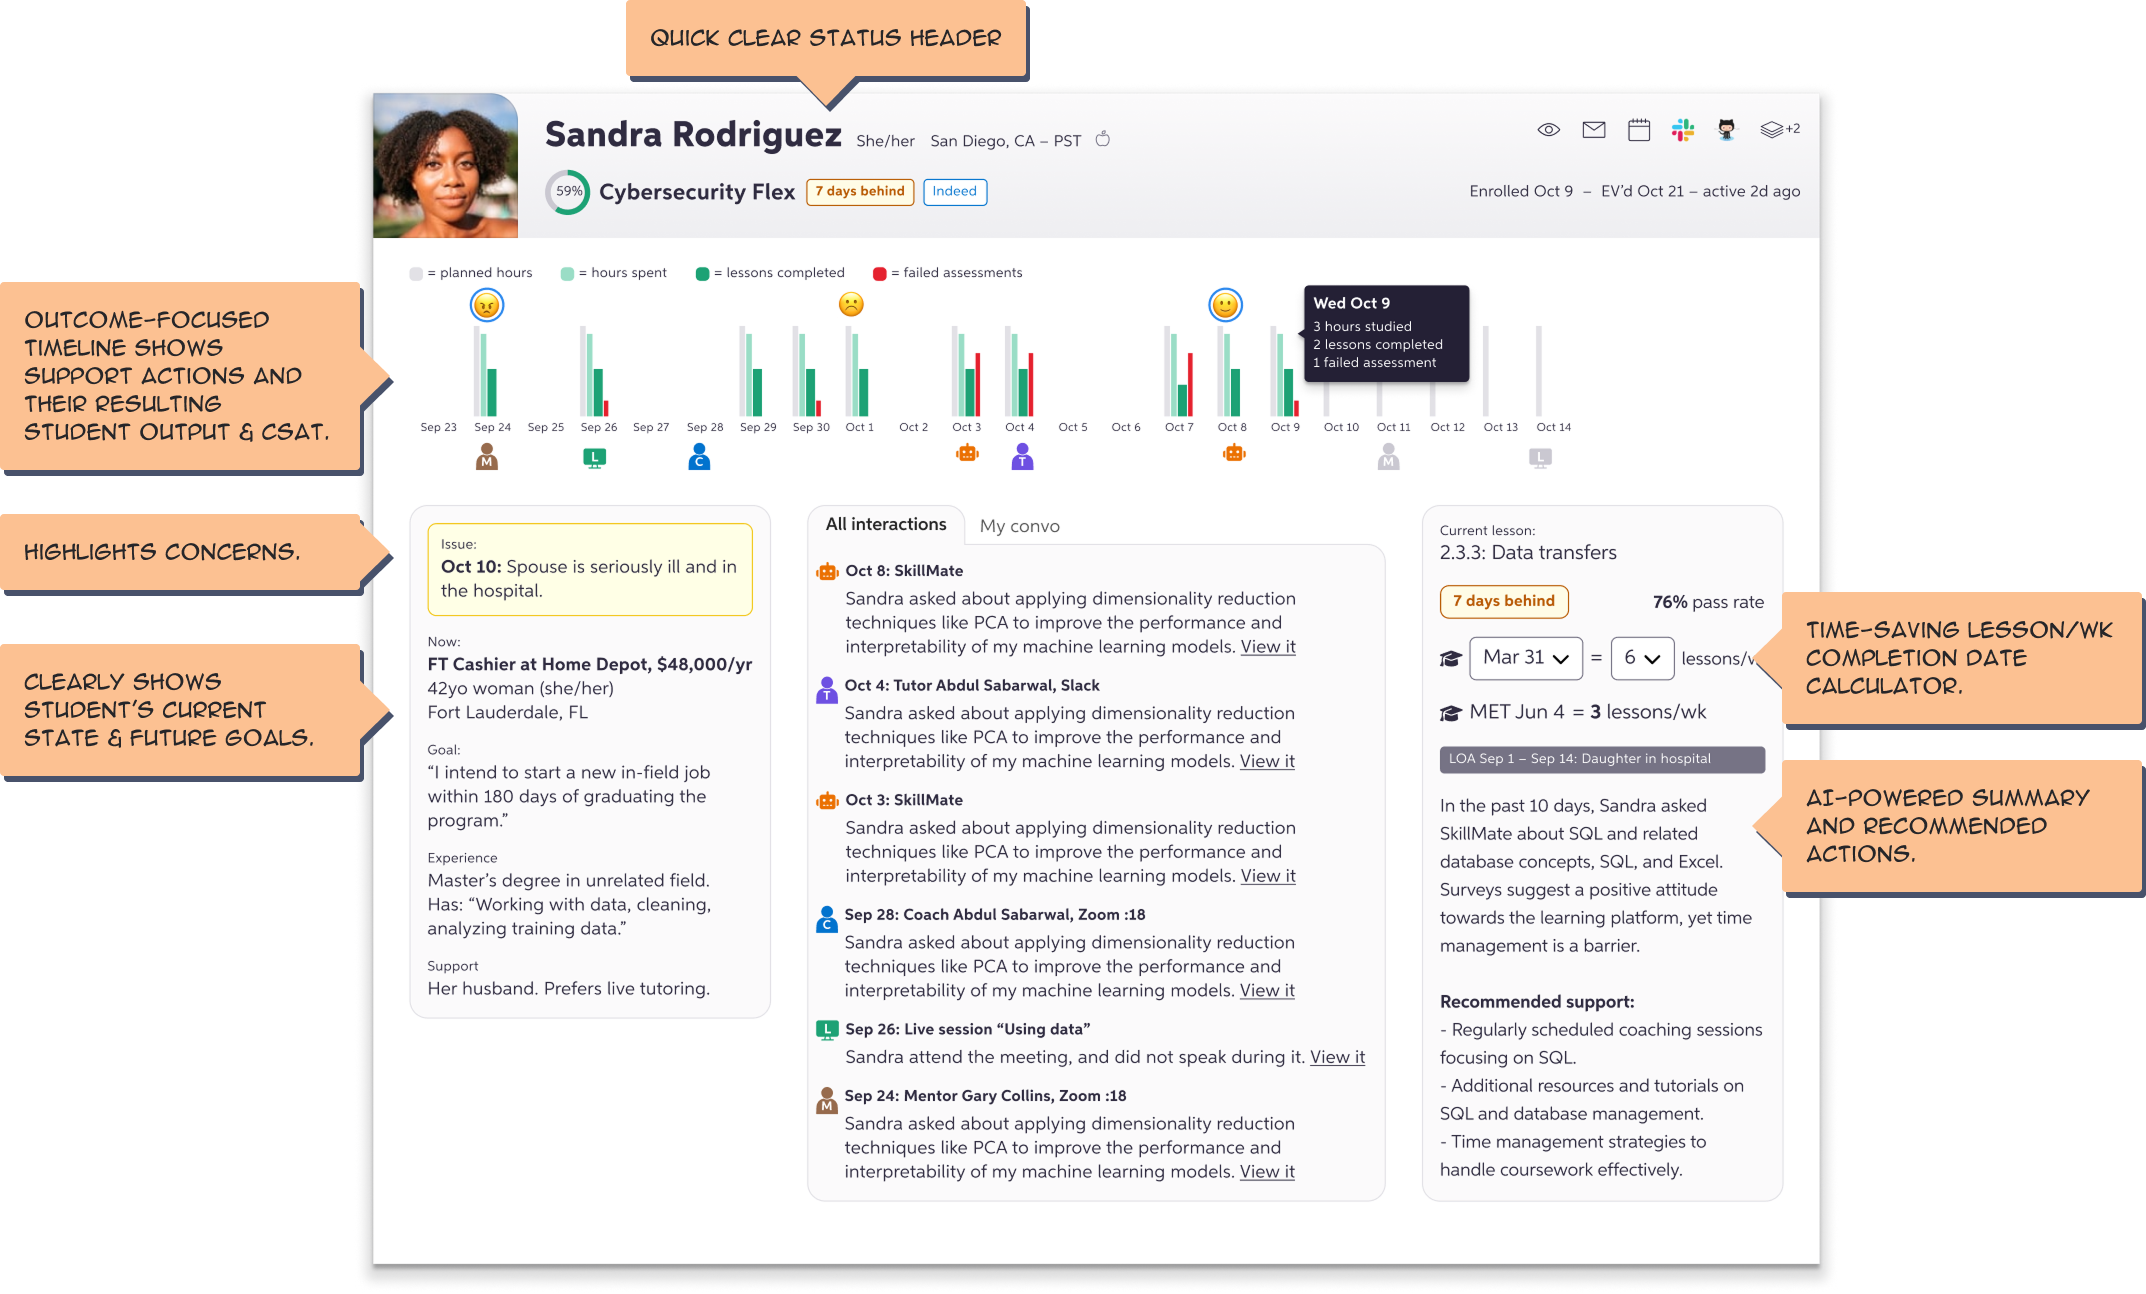
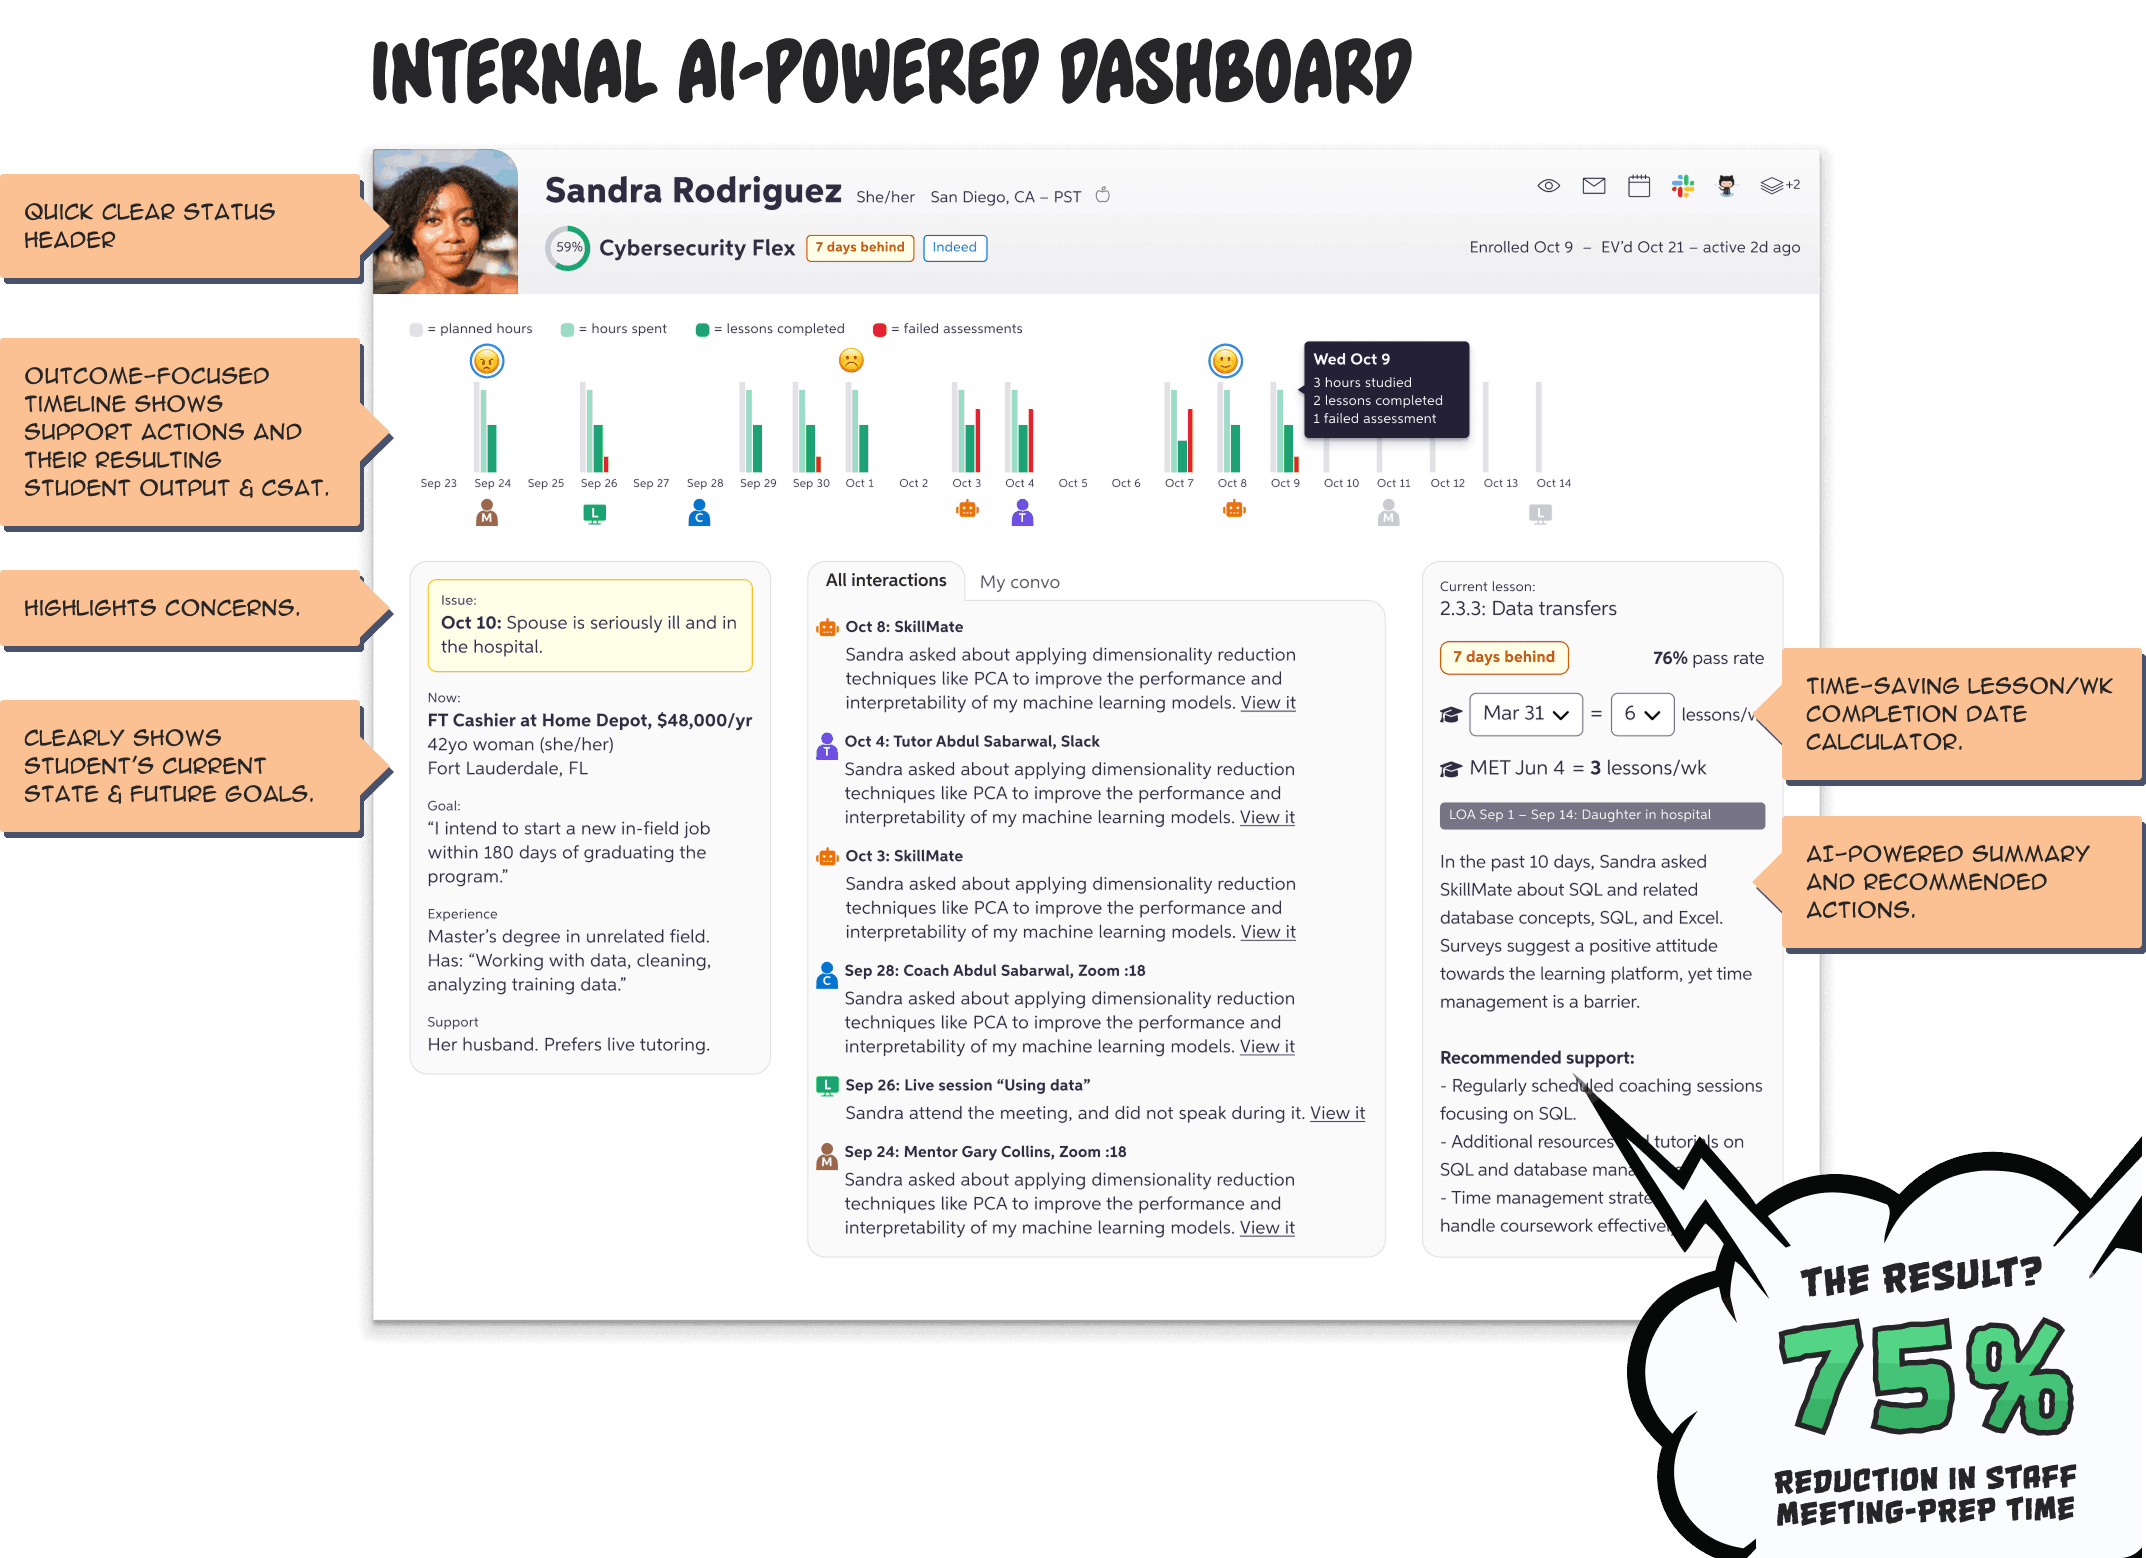
Image updates and removed Chegg intro.

diff --git a/src/components/CheggStaffAI.jsx b/src/components/CheggStaffAI.jsx
@@ -18,30 +18,24 @@ function CheggStaffAI() {
     const wireElement = wireRef.current
     if (!wireElement) return
 
-    // Find the scrollable container (project-panel-container)
-    const scrollContainer = wireElement.closest('.project-panel-container')
-    if (!scrollContainer) return
-
     const checkVisibility = () => {
       const wireRect = wireElement.getBoundingClientRect()
-      const containerRect = scrollContainer.getBoundingClientRect()
+      const viewportHeight = window.innerHeight
       
-      // Calculate how much of the Wire panel is visible horizontally
-      const wireLeft = wireRect.left
-      const wireRight = wireRect.right
-      const containerLeft = containerRect.left
-      const containerRight = containerRect.right
+      // Calculate how much of the Wire panel is visible vertically
+      const wireTop = wireRect.top
+      const wireBottom = wireRect.bottom
       
-      // Calculate visible width of Wire panel
-      const visibleLeft = Math.max(wireLeft, containerLeft)
-      const visibleRight = Math.min(wireRight, containerRight)
-      const visibleWidth = Math.max(0, visibleRight - visibleLeft)
-      const wireWidth = wireRect.width
+      // Calculate visible height of Wire panel
+      const visibleTop = Math.max(wireTop, 0)
+      const visibleBottom = Math.min(wireBottom, viewportHeight)
+      const visibleHeight = Math.max(0, visibleBottom - visibleTop)
+      const wireHeight = wireRect.height
       
-      // Trigger when 1/3 (33%) of the Wire panel is visible
-      const visibleRatio = visibleWidth / wireWidth
-      if (visibleRatio >= 0.33 && !isVisible) {
-        console.log('Wire panel 1/3 visible, triggering animation', { visibleRatio, visibleWidth, wireWidth })
+      // Trigger when section comes into vertical view (e.g., when any part is visible)
+      const visibleRatio = visibleHeight / wireHeight
+      if (visibleRatio > 0 && !isVisible) {
+        console.log('Wire panel vertically visible, triggering animation', { visibleRatio, visibleHeight, wireHeight })
         setIsVisible(true)
       }
     }
@@ -49,12 +43,12 @@ function CheggStaffAI() {
     // Check initially
     checkVisibility()
 
-    // Listen to scroll events on the container
-    scrollContainer.addEventListener('scroll', checkVisibility, { passive: true })
+    // Listen to window scroll events for vertical scrolling
+    window.addEventListener('scroll', checkVisibility, { passive: true })
     window.addEventListener('resize', checkVisibility, { passive: true })
 
     return () => {
-      scrollContainer.removeEventListener('scroll', checkVisibility)
+      window.removeEventListener('scroll', checkVisibility)
       window.removeEventListener('resize', checkVisibility)
     }
   }, [isVisible])
@@ -147,6 +141,9 @@ function CheggStaffAI() {
 
   return (
     <div className="chegg-staff-ai-panel">
+      <Backstory width="340px" className="chegg-staff-ai-backstory">
+        Chegg's "Skills" division (fka Thinkful) has 75 staff and sells a B2B2C async adult upskilling SaaS with human coaches.
+      </Backstory>
       <div ref={wireRef} className="chegg-staff-ai-wire">
         {/* Wire panel content will go here */}
         <img

diff --git a/src/pages/Home.jsx b/src/pages/Home.jsx
@@ -3,7 +3,6 @@ import QuotesRow from '../components/QuotesRow'
 import SketchesRow from '../components/SketchesRow'
 import MuralsRow from '../components/MuralsRow'
 import StarrySky from '../components/StarrySky'
-import CheggIntro from '../components/CheggIntro'
 import CheggStaffAI from '../components/CheggStaffAI'
 import CheggNav from '../components/CheggNav'
 import OtherProjects from '../components/OtherProjects'
@@ -13,11 +12,6 @@ import './Home.css'
 
 function Home() {
   const cheggSections = [
-    { 
-      id: 'intro', 
-      label: 'INTRO',
-      content: <CheggIntro />
-    },
     { 
       id: 'staffs-ai', 
       label: "STAFF'S AI",
@@ -76,11 +70,11 @@ function Home() {
                 👋 Hi, I'm Corey, a Super-IC Product Designer and dad of 4 kids and 4 dogs (<a href="/bio">dog pic in bio</a>).
               </p>
               <p className="introtext">
-                I'm also a 0-1 thinker from 4 startups plus solo-founding 7 apps. See my work below or grab my{' '}
+                I'm a 0-1 thinker from 4 startups plus solo-founding 7 apps. See my work below or grab my{' '}
                 <a href="/Corey-Stone-Resume.pdf" target="_blank" rel="noopener noreferrer">
                   résumé <i className="fa fa-file-pdf-o"></i>
                 </a>{' '}
-                if you need it. Thanks! <i className="fa fa-smile-o"></i>
+                if you need it.Thanks! <i className="fa fa-smile-o"></i>
               </p>
             </div>
           </div>

diff --git a/src/components/Backstory.jsx b/src/components/Backstory.jsx
@@ -2,7 +2,7 @@ import { useContext } from 'react'
 import { BackstoryContext } from './ProjectSection'
 import './Backstory.css'
 
-function Backstory({ children, backgroundColor, width, top, left }) {
+function Backstory({ children, backgroundColor, width, top, left, className = '' }) {
   const contextBgColor = useContext(BackstoryContext)
   
   const style = {
@@ -20,7 +20,7 @@ function Backstory({ children, backgroundColor, width, top, left }) {
   })
 
   return (
-    <div className="backstory" style={Object.keys(style).length > 0 ? style : undefined}>
+    <div className={`backstory ${className}`.trim()} style={Object.keys(style).length > 0 ? style : undefined}>
       {children}
     </div>
   )

diff --git a/src/components/CheggStaffAI.css b/src/components/CheggStaffAI.css
@@ -6,6 +6,14 @@
   margin: 0;
   padding: 0;
   box-sizing: border-box;
+  position: relative;
+}
+
+.chegg-staff-ai-backstory {
+  position: absolute;
+  top: 0;
+  left: 0;
+  z-index: 15;
 }
 
 .chegg-staff-ai-wire {
